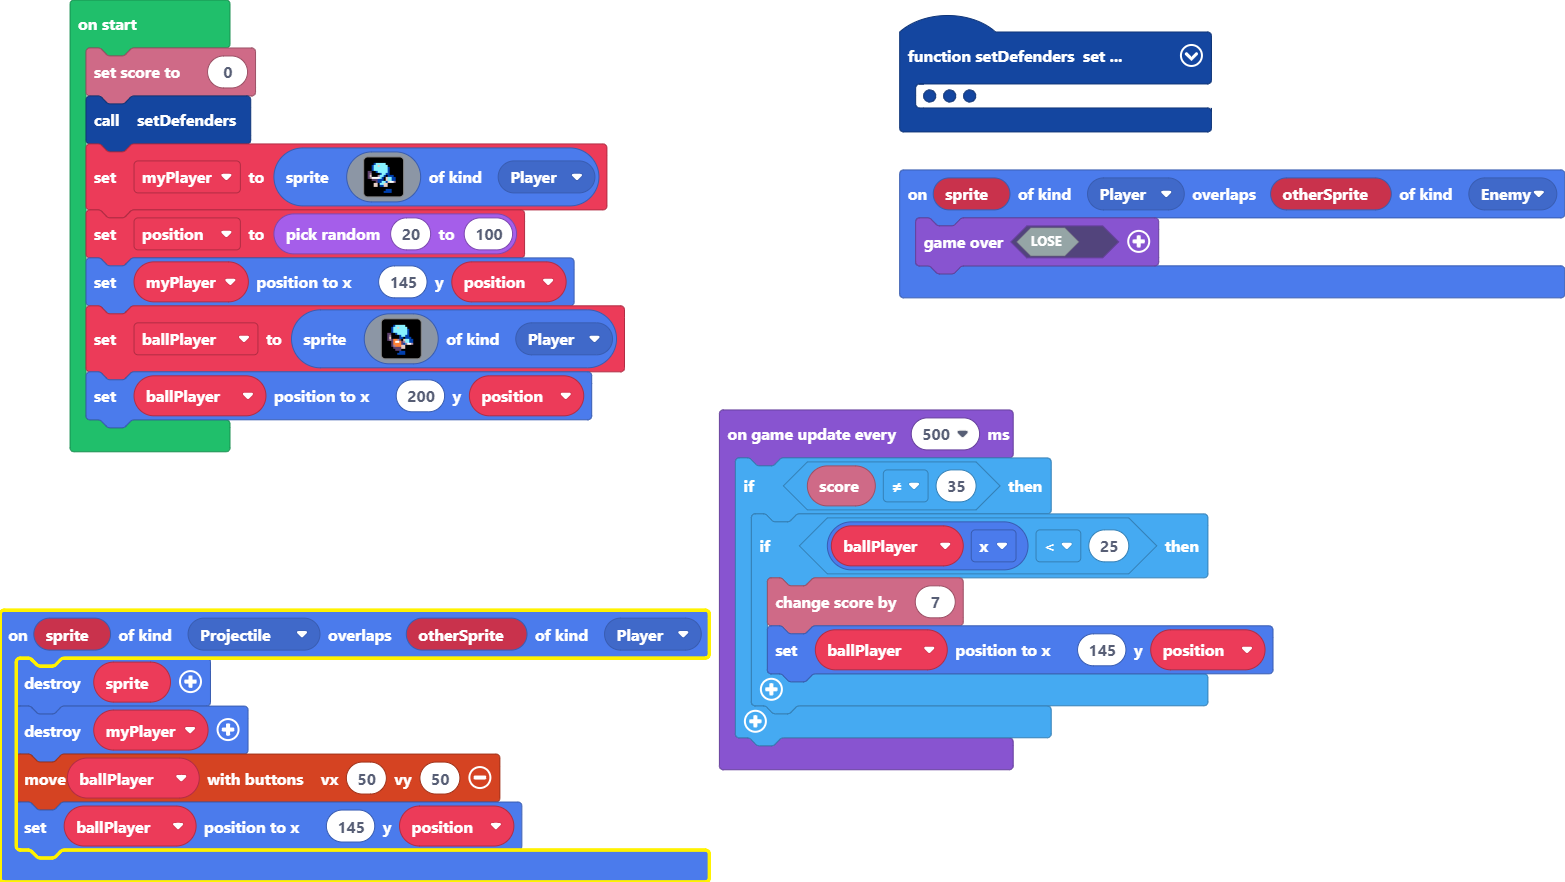
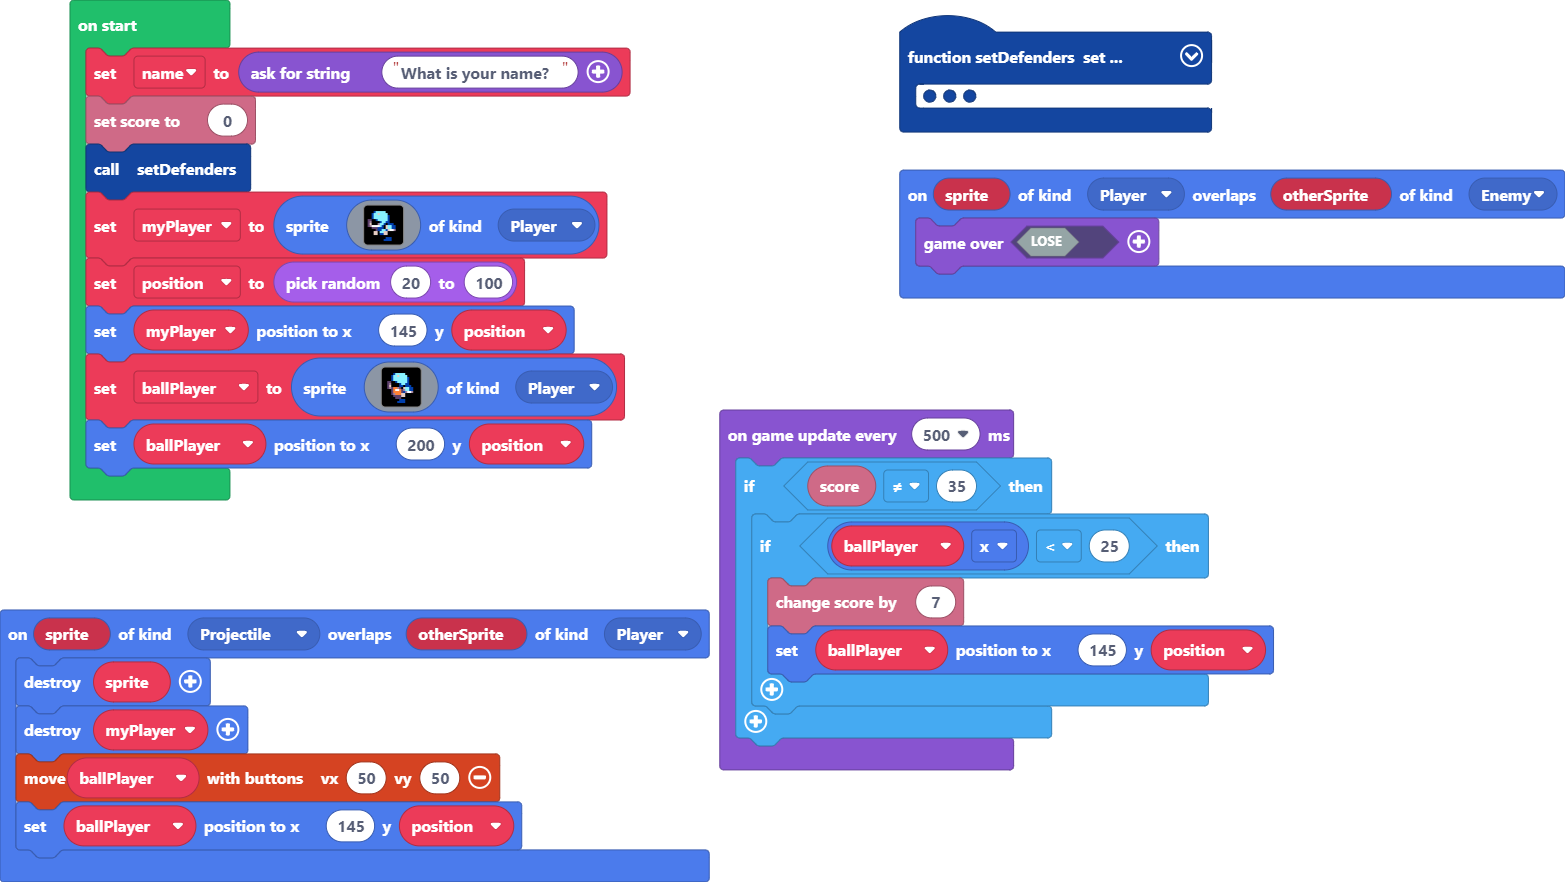
Update main.blocks, main.ts

diff --git a/main.ts b/main.ts
@@ -78,6 +78,7 @@ let obstacle1: Sprite = null
 let ballPlayer: Sprite = null
 let position = 0
 let myPlayer: Sprite = null
+let name = game.askForString("What is your name?")
 info.setScore(0)
 setDefenders()
 myPlayer = sprites.create(img`
